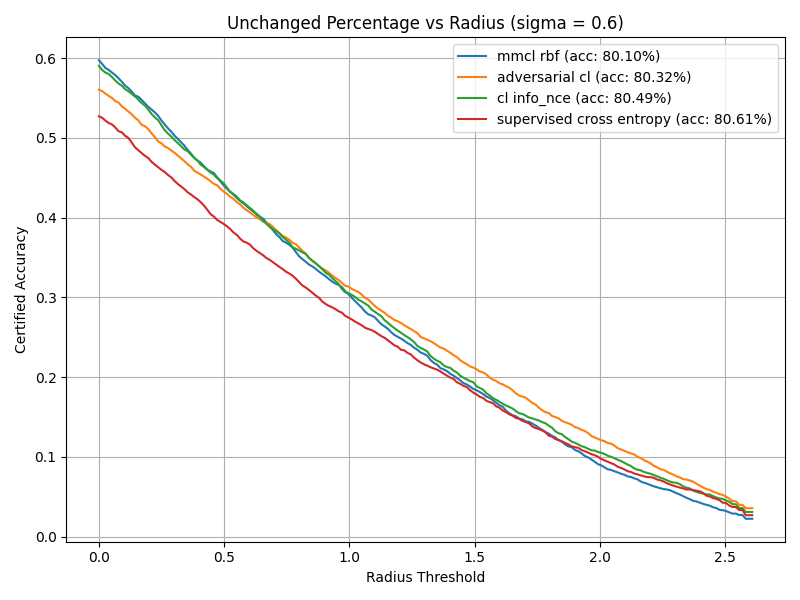
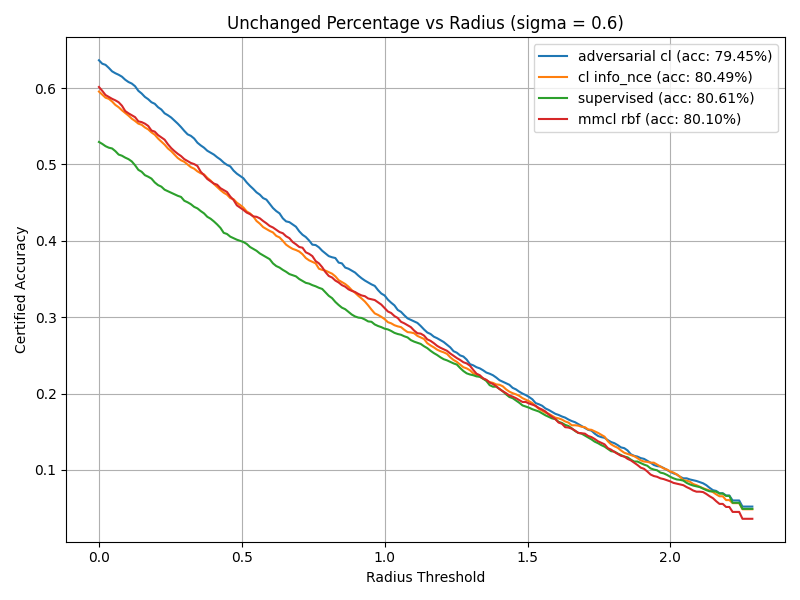
SMall updates

diff --git a/plot_from_json/randomized_smoothing/randomized_smoothing_compute_cl.py b/plot_from_json/randomized_smoothing/randomized_smoothing_compute_cl.py
@@ -8,96 +8,26 @@ import pandas as pd
 from openpyxl import load_workbook
 from openpyxl.styles import Font
 
-file_name = "rs_results_cl"
-with open(f"../rs_results/{file_name}.json", "r") as f:
+file_name = "barlow-cosine-info_nce-nce"
+with open(f"rs_results/{file_name}.json", "r") as f:
     data = json.load(f)
 
-sigma_values = [0.25, 0.5, 1]
-certified_radius_choices = [0, 0.5, 1, 1.5, 2, 2.5, 3]
-model_names = data.keys()
-per_model = defaultdict(list)
-per_sigma_radius = defaultdict(list)
+models_info = data["models_info"]
+model_names = [x["model"] for x in models_info]
 
-for model in model_names:
-    for curr_sigma in sigma_values:
-        # Get all examples for the current sigma value (denominator remains constant)
-        all_values = [x for x in data[model] if x["sigma"] == curr_sigma]
-        total = len(all_values)
-        for curr_radius in certified_radius_choices:
-            certified_count = sum(
-                1 for x in all_values
-                if x["radius"] > curr_radius and x["true_label"] == x["rs_label"] == rs["predicted_label"]
-            )
-            unchanged_count = sum(
-                1 for x in all_values
-                if x["radius"] > curr_radius and x["predicted_label"] == x["rs_label"]
-            )
-            certified_accuracy = certified_count / total if total > 0 else 0
-            unchanged_percentage = unchanged_count / total if total > 0 else 0
 
-            per_model[model].append({
-                "sigma": curr_sigma,
-                "radius": curr_radius,
-                "certified_accuracy": certified_accuracy,
-                "unchanged_percentage": unchanged_percentage
-            })
-            per_sigma_radius[f"sigma:{curr_sigma}|radius:{curr_radius}"].append({
-                "model": model,
-                "certified_accuracy": certified_accuracy,
-                "unchanged_percentage": unchanged_percentage
-            })
+def plot_one_certified_accuracy_per_sigma(data):
+    # Create a mapping from model name to test accuracy
+    model_to_accuracy = {m["model"]: m["test_accuracy"] for m in models_info}
 
-per_sigma_radius_updated = {}
-for key, values in per_sigma_radius.items():
-    max_certified_accuracy = max(x["certified_accuracy"] for x in values)
-    best_certified_accuracy_model = (
-        [x["model"] for x in values if x["certified_accuracy"] == max_certified_accuracy]
-        if max_certified_accuracy > 0
-        else []
-    )
-    max_unchanged_percentage = max(x["unchanged_percentage"] for x in values)
-    best_unchanged_percentage_model = (
-        [x["model"] for x in values if x["unchanged_percentage"] == max_unchanged_percentage]
-        if max_unchanged_percentage > 0
-        else []
-    )
-    per_sigma_radius_updated[key] = {
-        "per_model_values": values,
-        "best_certified_accuracy_models": best_certified_accuracy_model,
-        "best_unchanged_percentage_models": best_unchanged_percentage_model
-    }
-
-print(json.dumps(per_sigma_radius_updated, indent=4))
-
-# Prepare table rows for Excel
-rows = []
-for key, value in per_sigma_radius_updated.items():
-    sigma_str, radius_str = key.split("|")
-    sigma = float(sigma_str.split(":")[1])
-    radius = float(radius_str.split(":")[1])
-    per_model_values = value["per_model_values"]
-    # Create a mapping from model name to its metrics
-    model_metrics = {x["model"]: x for x in per_model_values}
-    row = {
-        "sigma": sigma,
-        "radius": radius,
-    }
-    for model in model_names:
-        metrics = model_metrics[model]
-        row[f"{model}_cia"] = round(metrics["certified_accuracy"], 2)
-        row[f"{model}_up"] = round(metrics["unchanged_percentage"], 2)
-    row["best_certified_model"] = ", ".join(value["best_certified_accuracy_models"])
-    row["best_unchanged_model"] = ", ".join(value["best_unchanged_percentage_models"])
-    rows.append(row)
-
-def plot_one_per_sigma(data):
     sigma_set = set()
     for model in model_names:
         for rec in data[model]:
             sigma_set.add(rec["sigma"])
     sigma_values = sorted(list(sigma_set))
+
     for sigma in sigma_values:
-        plt.figure(figsize=(8,6))
+        plt.figure(figsize=(8, 6))
         max_threshold = 0
         model_records = {}
         for model in model_names:
@@ -109,6 +39,7 @@ def plot_one_per_sigma(data):
                     max_threshold = max_val
         if max_threshold == 0:
             max_threshold = 3.5
+
         x_vals = np.linspace(0, max_threshold, 200)
         for model in model_names:
             records = model_records[model]
@@ -116,19 +47,80 @@ def plot_one_per_sigma(data):
             y_vals = []
             for r in x_vals:
                 count = sum(
-                    1 for rec in records if rec["radius"] >= r and rec["true_label"] == rec["rs_label"] == rec["predicted_label"]
+                    1 for rec in records if rec["radius"] >= r and rec["true_label"] == rec["rs_label"]
                 )
                 y_vals.append(count / total if total > 0 else 0)
-            plt.plot(x_vals, y_vals, label=model)
+            # Construct legend label with test accuracy
+            test_acc = model_to_accuracy.get(model, "N/A")
+            label = f"{model} (acc: {100*test_acc:.2f}%)" if isinstance(test_acc, float) else f"{model} (acc: N/A)"
+            plt.plot(x_vals, y_vals, label=label)
+
         plt.xlabel("Radius Threshold")
         plt.ylabel("Certified Accuracy")
         plt.title(f"Certified Accuracy vs Radius (sigma = {sigma})")
         plt.legend()
         plt.grid(True)
-        output_filename = f"per_sigma_comparison_sigma_{sigma}_cl.png"
+        output_dir = os.path.join("plots", "randomized_smoothing", "cl")
+        os.makedirs(output_dir, exist_ok=True)
+        output_filename = f"ca_sigma_{sigma}.png"
         plt.tight_layout()
-        plt.savefig(os.path.join("../plots/randomized_smoothing/cl", output_filename))
+        plt.savefig(os.path.join(output_dir, output_filename))
         plt.close()
         print(f"Plot saved as: {output_filename}")
 
-plot_one_per_sigma(data)
+
+def plot_one_unchanged_percentage_per_sigma(data):
+    # Create a mapping from model name to test accuracy
+    model_to_accuracy = {m["model"]: m["test_accuracy"] for m in models_info}
+
+    sigma_set = set()
+    for model in model_names:
+        for rec in data[model]:
+            sigma_set.add(rec["sigma"])
+    sigma_values = sorted(list(sigma_set))
+
+    for sigma in sigma_values:
+        plt.figure(figsize=(8, 6))
+        max_threshold = 0
+        model_records = {}
+        for model in model_names:
+            records = [r for r in data[model] if r["sigma"] == sigma]
+            model_records[model] = records
+            if records:
+                max_val = max(r["radius"] for r in records)
+                if max_val > max_threshold:
+                    max_threshold = max_val
+        if max_threshold == 0:
+            max_threshold = 3.5
+
+        x_vals = np.linspace(0, max_threshold, 200)
+        for model in model_names:
+            records = model_records[model]
+            total = len(records)
+            y_vals = []
+            for r in x_vals:
+                count = sum(
+                    1 for rec in records if rec["radius"] >= r and rec["predicted_label"]
+                )
+                y_vals.append(count / total if total > 0 else 0)
+            # Construct legend label with test accuracy
+            test_acc = model_to_accuracy.get(model, "N/A")
+            label = f"{model} (acc: {100*test_acc:.2f}%)" if isinstance(test_acc, float) else f"{model} (acc: N/A)"
+            plt.plot(x_vals, y_vals, label=label)
+
+        plt.xlabel("Radius Threshold")
+        plt.ylabel("Certified Accuracy")
+        plt.title(f"Unchanged Percentage vs Radius (sigma = {sigma})")
+        plt.legend()
+        plt.grid(True)
+        output_dir = os.path.join("plots", "randomized_smoothing", "cl")
+        os.makedirs(output_dir, exist_ok=True)
+        output_filename = f"up_sigma_{sigma}.png"
+        plt.tight_layout()
+        plt.savefig(os.path.join(output_dir, output_filename))
+        plt.close()
+        print(f"Plot saved as: {output_filename}")
+
+
+plot_one_certified_accuracy_per_sigma(data)
+plot_one_unchanged_percentage_per_sigma(data)

diff --git a/plot_from_json/randomized_smoothing/randomized_smoothing_compute_resnet.py b/plot_from_json/randomized_smoothing/randomized_smoothing_compute_resnet.py
@@ -8,7 +8,7 @@ import pandas as pd
 from openpyxl import load_workbook
 from openpyxl.styles import Font
 
-file_name = "resnet_supervised-vit_supervised-resnet_cl-resnet_adversarial_cl-resnet_mmcl"
+file_name = "resnet_cl_nce-resnet_cl_barlow-resnet_cl_cosine-resnet_cl_info_nce"
 with open(f"rs_results/{file_name}.json", "r") as f:
     data = json.load(f)
 models_info = data["models_info"]
@@ -46,7 +46,7 @@ def plot_one_certified_accuracy_per_sigma(data):
             y_vals = []
             for r in x_vals:
                 count = sum(
-                    1 for rec in records if rec["radius"] >= r and rec["true_label"] == rec["rs_label"] == rec["predicted_label"]
+                    1 for rec in records if rec["radius"] >= r and rec["true_label"] == rec["rs_label"]
                 )
                 y_vals.append(count / total if total > 0 else 0)
             # Construct legend label with test accuracy
@@ -59,7 +59,7 @@ def plot_one_certified_accuracy_per_sigma(data):
         plt.title(f"Certified Accuracy vs Radius (sigma = {sigma})")
         plt.legend()
         plt.grid(True)
-        output_dir = os.path.join("plots", "randomized_smoothing", "resnet_vt")
+        output_dir = os.path.join("plots", "randomized_smoothing", "resnet_cl")
         os.makedirs(output_dir, exist_ok=True)
         output_filename = f"ca_sigma_{sigma}.png"
         plt.tight_layout()
@@ -112,7 +112,7 @@ def plot_one_unchanged_percentage_per_sigma(data):
         plt.title(f"Unchanged Percentage vs Radius (sigma = {sigma})")
         plt.legend()
         plt.grid(True)
-        output_dir = os.path.join("plots", "randomized_smoothing", "resnet_vt")
+        output_dir = os.path.join("plots", "randomized_smoothing", "resnet_cl")
         os.makedirs(output_dir, exist_ok=True)
         output_filename = f"up_sigma_{sigma}.png"
         plt.tight_layout()

diff --git a/plot_from_json/randomized_smoothing/randomized_smoothing_compute.py b/plot_from_json/randomized_smoothing/randomized_smoothing_compute.py
@@ -5,8 +5,8 @@ from collections import defaultdict
 import matplotlib.pyplot as plt
 import numpy as np
 
-file_name = "mmcl_rbf-adversarial_cl-cl_info_nce-supervised_cross_entropy"
-with open(f"../rs_results/{file_name}.json", "r") as f:
+file_name = "adversarial_cl-cl_info_nce-supervised-mmcl_rbf"
+with open(f"rs_results/{file_name}.json", "r") as f:
     data = json.load(f)
 
 models_info = data["models_info"]
@@ -57,7 +57,7 @@ def plot_one_certified_accuracy_per_sigma(data):
         plt.title(f"Certified Accuracy vs Radius (sigma = {sigma})")
         plt.legend()
         plt.grid(True)
-        output_dir = os.path.join("..", "plots", "randomized_smoothing", "cnn_4_layer_b")
+        output_dir = os.path.join("plots", "randomized_smoothing", "cnn_4_layer_b")
         os.makedirs(output_dir, exist_ok=True)
         output_filename = f"ca_sigma_{sigma}.png"
         plt.tight_layout()
@@ -110,7 +110,7 @@ def plot_one_unchanged_percentage_per_sigma(data):
         plt.title(f"Unchanged Percentage vs Radius (sigma = {sigma})")
         plt.legend()
         plt.grid(True)
-        output_dir = os.path.join("..", "plots", "randomized_smoothing", "cnn_4_layer_b")
+        output_dir = os.path.join("plots", "randomized_smoothing", "cnn_4_layer_b")
         os.makedirs(output_dir, exist_ok=True)
         output_filename = f"up_sigma_{sigma}.png"
         plt.tight_layout()
